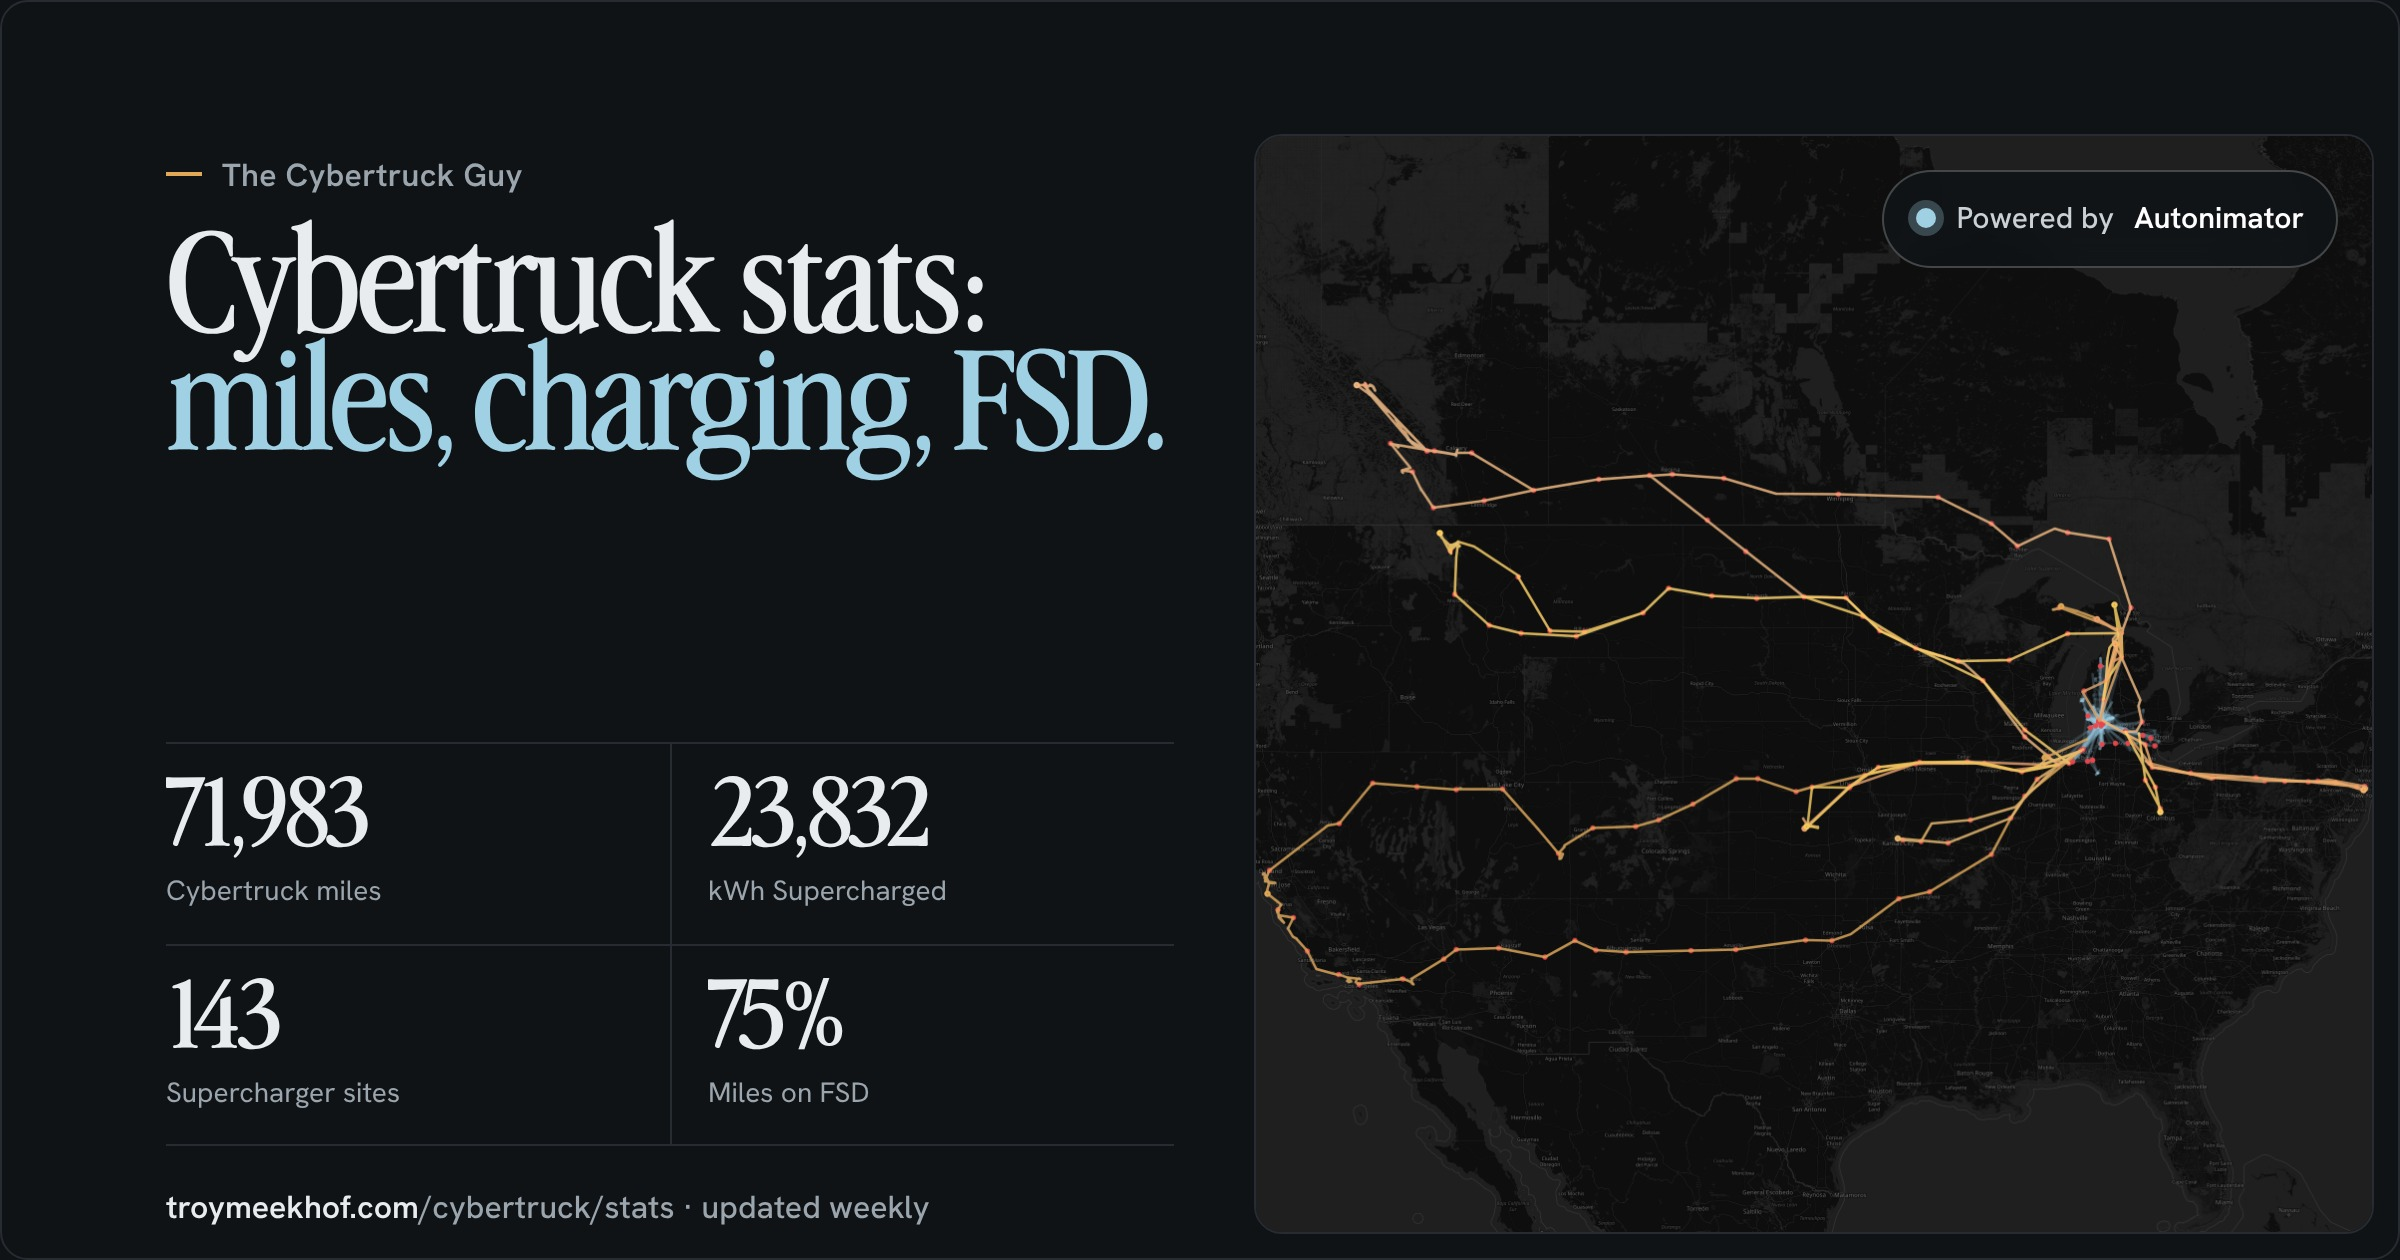
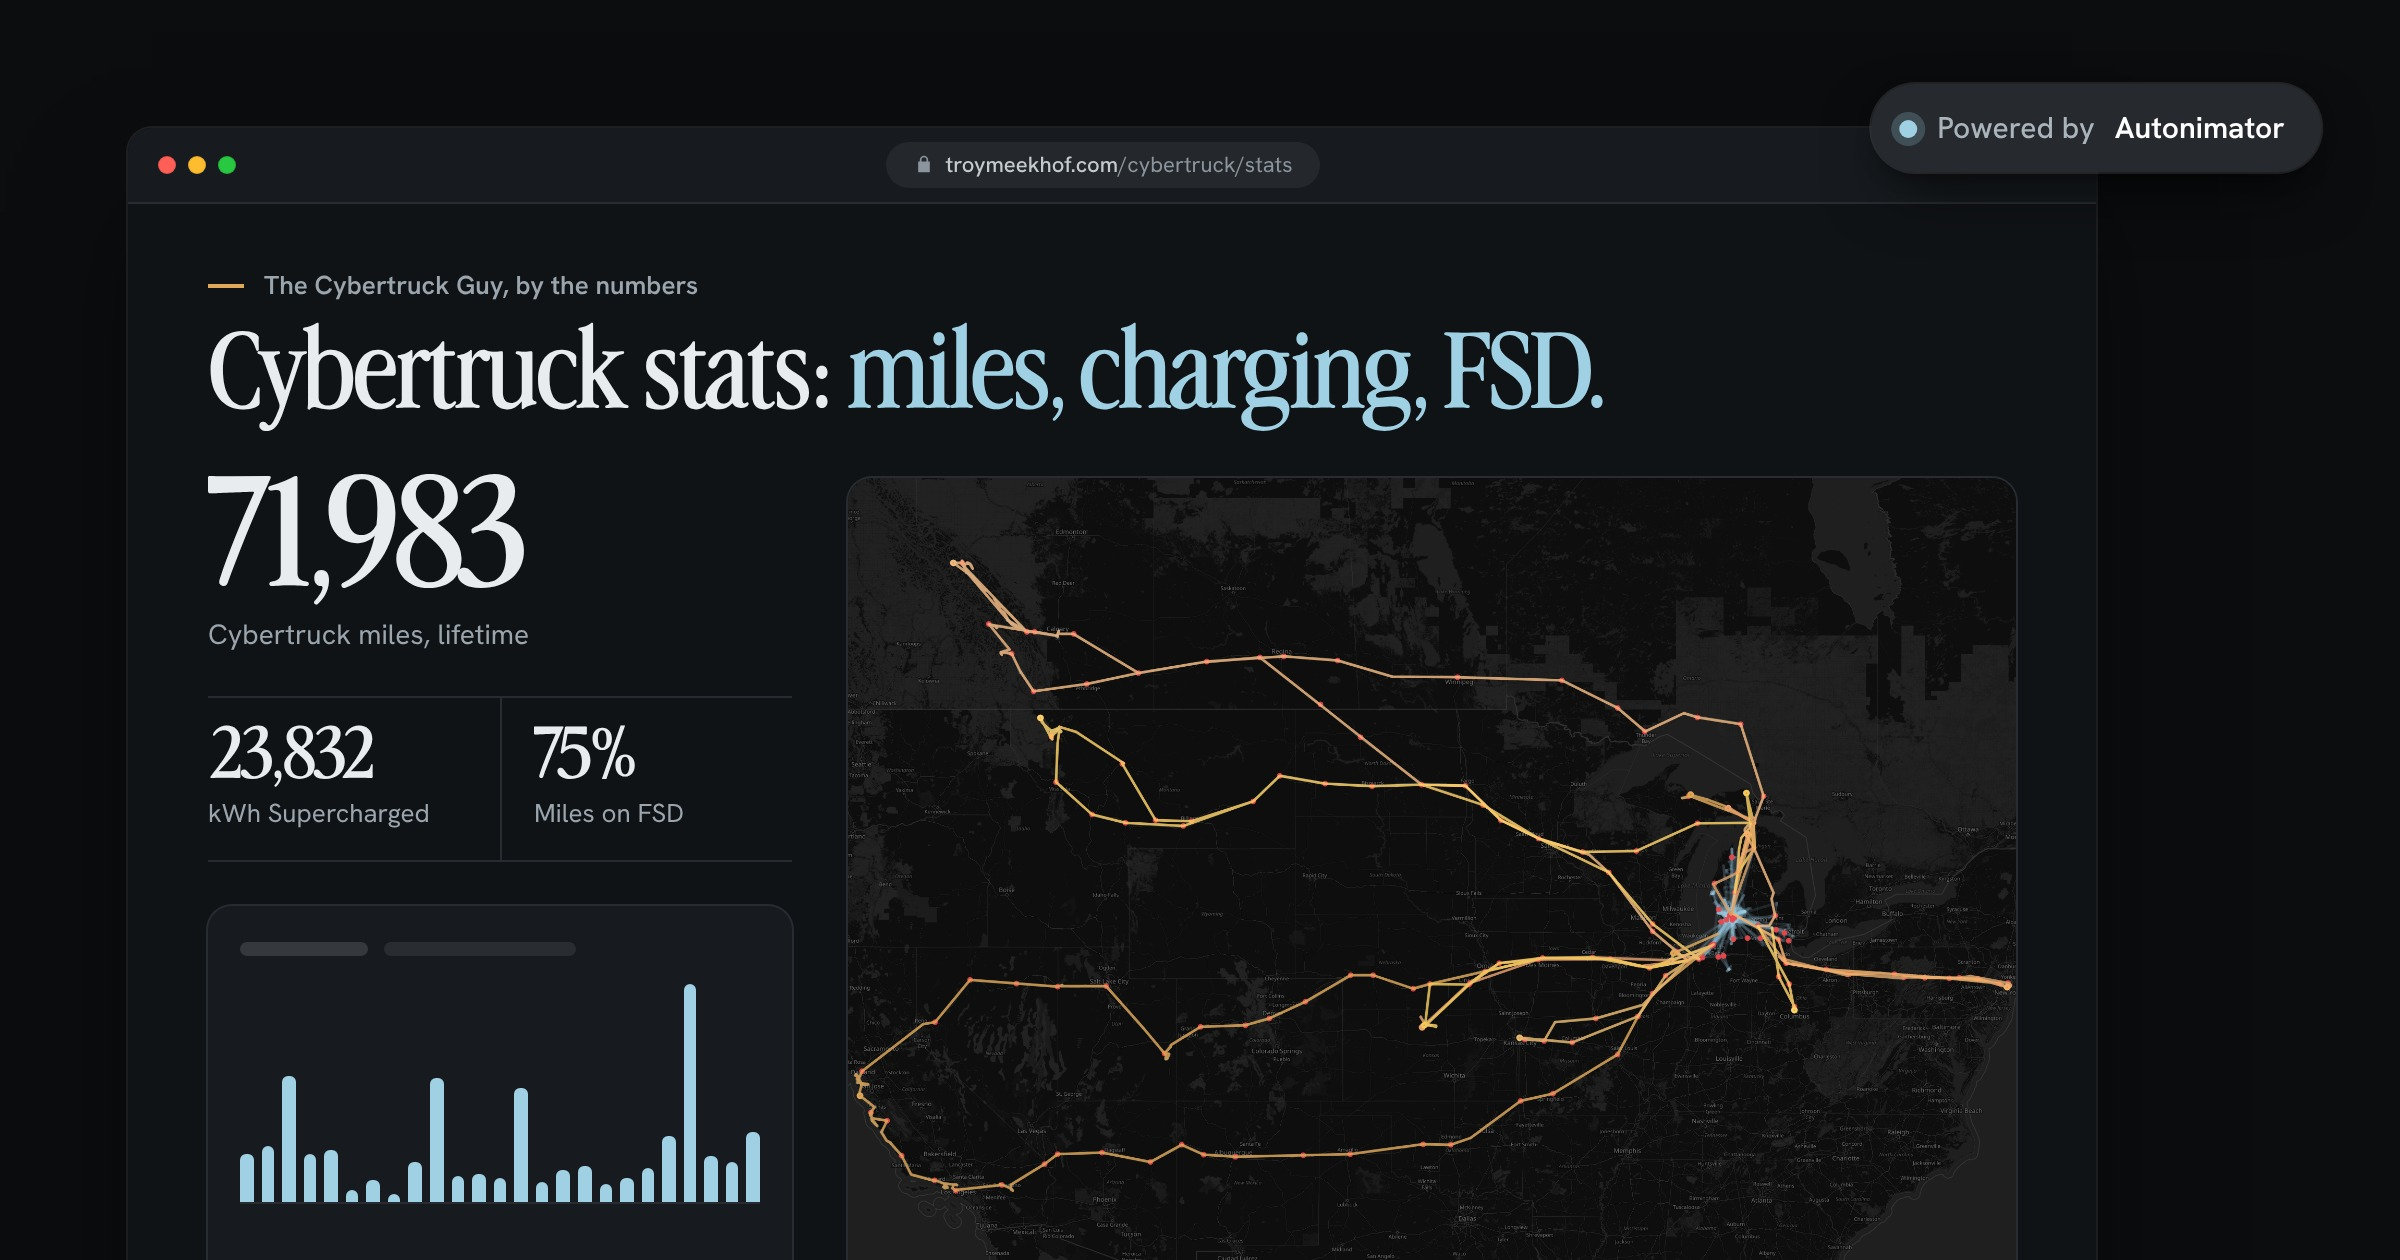
Stats share card: faux browser shot with Autonimator corner chip
Claude-Session: https://claude.ai/code/session_01CFwTxaUJWjfxVswQdGP8SV

diff --git a/_src/tools/og-card.html b/_src/tools/og-card.html
@@ -1,38 +1,93 @@
-<!doctype html><html lang="en" data-persona="tcg"><head><meta charset="utf-8">
+<!doctype html>
+<html lang="en" data-persona="tcg">
+<head>
+<meta charset="utf-8">
+<!-- Share card for /cybertruck/stats/ (1200x630 design, exported at 2x by og-card.js).
+     Composition follows the Stageshow "corner chip" layout: one browser window
+     inset top-left and off the bottom, a chip centered on its top-right corner
+     over chrome only. Numbers are copied from the live page; update them here. -->
 <link rel="preload" href="/assets/fonts/advercase-regular.woff2" as="font" type="font/woff2" crossorigin>
 <link rel="stylesheet" href="https://fonts.googleapis.com/css2?family=Hanken+Grotesk:wght@400;500;600&display=swap">
 <link rel="stylesheet" href="/assets/style.css">
 <style>
-html,body{margin:0;background:var(--ground)}
-.card{width:1200px;height:630px;box-sizing:border-box;display:grid;grid-template-columns:600px 600px;background:var(--ground);color:var(--ink);font-family:var(--sans);position:relative;overflow:hidden}
-.l{padding:48px 40px 40px 56px;display:flex;flex-direction:column}
-.l .label{font-size:16px;margin:0 0 14px}
-.l h1{font-family:var(--display);font-weight:400;font-size:58px;line-height:1.02;margin:0;letter-spacing:-.01em}
-.l h1 em{font-style:normal;color:var(--em)}
-.st{display:grid;grid-template-columns:1fr 1fr;margin-top:auto;border-top:1px solid var(--line)}
-.st div{padding:16px 14px 14px 0;border-bottom:1px solid var(--line)}
-.st div:nth-child(2n){padding-left:18px;border-left:1px solid var(--line)}
-.st b{display:block;font-family:var(--display);font-weight:400;font-size:40px;line-height:1}
-.st span{display:block;margin-top:6px;font-size:14px;color:var(--muted)}
-.url{margin-top:18px;font-size:16px;color:var(--muted);font-weight:500}
-.url b{color:var(--ink);font-weight:600}
-.r{position:relative;padding:40px 40px 40px 0}
-.r img{width:560px;height:550px;object-fit:cover;border-radius:14px;border:1px solid var(--line);display:block}
-.pin{position:absolute;right:58px;top:58px;display:inline-flex;align-items:center;gap:10px;padding:11px 16px;border-radius:999px;background:rgba(16,19,22,.88);border:1px solid rgba(255,255,255,.22);color:#c9d1d7;font-size:15px;font-weight:500;backdrop-filter:blur(6px)}
-.pin b{color:#fff;font-weight:600}
-.pin i{width:10px;height:10px;border-radius:50%;background:var(--primary);box-shadow:0 0 0 4px var(--glow)}
-</style></head><body>
-<div class="card">
- <div class="l">
-  <p class="label">The Cybertruck Guy</p>
-  <h1>Cybertruck stats: <em>miles, charging, FSD.</em></h1>
-  <div class="st">
-   <div><b>71,983</b><span>Cybertruck miles</span></div>
-   <div><b>23,832</b><span>kWh Supercharged</span></div>
-   <div><b>143</b><span>Supercharger sites</span></div>
-   <div><b>75%</b><span>Miles on FSD</span></div>
+html,body{margin:0;background:#0b0d0f}
+.x-og{position:relative;width:1200px;height:630px;overflow:hidden;background:#0b0d0f;font-family:var(--sans);color:#e8ecef}
+
+/* The window: inset 64 top and left, 12% off the bottom */
+.x-win{position:absolute;left:64px;top:64px;width:984px;height:640px;border-radius:12px;overflow:hidden;background:#101316;
+  box-shadow:0 0 0 1px rgba(255,255,255,.08),0 30px 60px -12px rgba(0,0,0,.6)}
+.x-bar{display:flex;align-items:center;height:38px;padding:0 14.5px;background:#171b1f;border-bottom:1px solid rgba(255,255,255,.08)}
+.x-lights{display:flex;gap:6px;flex:none}
+.x-lights i{width:9px;height:9px;border-radius:50%;box-shadow:inset 0 0 0 .5px rgba(0,0,0,.12)}
+.x-lights i:nth-child(1){background:#ff5f57}.x-lights i:nth-child(2){background:#febc2e}.x-lights i:nth-child(3){background:#28c840}
+.x-url{margin:0 auto;transform:translateX(-24px);display:flex;align-items:center;gap:6px;padding:4px 14px;border-radius:999px;background:rgba(255,255,255,.06);color:#8a959d;font-size:11px;line-height:1.4;white-space:nowrap}
+.x-url svg{flex:none}
+.x-url b{color:#c3cbd1;font-weight:500}
+
+/* The page */
+.x-page{padding:30px 40px 0}
+.x-kick{display:flex;align-items:center;gap:10px;margin:0 0 12px;font-size:13px;font-weight:600;color:#9aa5ad}
+.x-kick::before{content:"";width:18px;height:2px;background:#e0a857}
+.x-h1{font-family:var(--display);font-weight:400;font-size:44px;line-height:1.04;letter-spacing:-.01em;color:#e8ecef}
+.x-h1 em{font-style:normal;color:#9fd0e3}
+.x-grid{display:grid;grid-template-columns:292px minmax(0,1fr);gap:28px;margin-top:28px}
+.x-big{font-family:var(--display);font-size:64px;line-height:.95;letter-spacing:-.01em}
+.x-lab{margin-top:8px;font-size:14px;line-height:1.3;color:#9aa5ad}
+.x-pair{display:grid;grid-template-columns:1fr 1fr;margin-top:22px;border-top:1px solid #262c32;border-bottom:1px solid #262c32}
+.x-pair div{padding:14px 0 14px}
+.x-pair div+div{padding-left:16px;border-left:1px solid #262c32}
+.x-pair b{display:block;font-family:var(--display);font-weight:400;font-size:30px;line-height:1}
+.x-pair span{display:block;margin-top:6px;font-size:13px;line-height:1.3;color:#9aa5ad}
+
+/* Filler: the month chart, real shape, no words, off the bottom */
+.x-chart{margin-top:22px;height:220px;border-radius:12px;background:#171b1f;box-shadow:0 0 0 1px #262c32;padding:18px 16px 0;display:flex;flex-direction:column;gap:14px}
+.x-chart .x-t{display:flex;gap:8px}
+.x-chart .x-t i{display:block;height:7px;border-radius:3.5px;background:rgba(255,255,255,.13)}
+.x-bars{display:flex;align-items:flex-end;gap:4px;height:110px;border-bottom:1px solid #262c32}
+.x-bars i{flex:1;border-radius:3px 3px 0 0;background:#9fd0e3}
+
+/* The map: signature content, off the bottom */
+.x-map{height:416px;border-radius:12px;overflow:hidden;box-shadow:0 0 0 1px #262c32;background:#101316}
+.x-map img{display:block;width:100%;height:100%;object-fit:cover;object-position:50% 56%}
+
+/* The chip: centered on the window's top-right corner (1048, 64), a level above */
+.x-chip{position:absolute;left:1048px;top:64px;translate:-50% -50%;display:inline-flex;align-items:center;gap:10px;padding:0 18px 0 14px;height:44px;border-radius:999px;
+  background:#262a2f;box-shadow:0 0 0 1px rgba(255,255,255,.1),0 14px 32px -8px rgba(0,0,0,.7),0 4px 10px -4px rgba(0,0,0,.5);
+  font-size:15px;font-weight:500;color:#aab4bb;white-space:nowrap}
+.x-chip i{width:9px;height:9px;border-radius:50%;background:#9fd0e3;box-shadow:0 0 0 4px rgba(159,208,227,.22);flex:none}
+.x-chip b{color:#fff;font-weight:600}
+</style>
+</head>
+<body>
+<div class="x-og">
+  <div class="x-win">
+    <div class="x-bar">
+      <div class="x-lights"><i></i><i></i><i></i></div>
+      <div class="x-url"><svg width="10" height="10" viewBox="0 0 24 24" aria-hidden="true"><path fill="#8a959d" d="M17 9V7a5 5 0 0 0-10 0v2H5v13h14V9h-2zM9 7a3 3 0 0 1 6 0v2H9V7z"/></svg><span><b>troymeekhof.com</b>/cybertruck/stats</span></div>
+    </div>
+    <div class="x-page">
+      <div class="x-kick">The Cybertruck Guy, by the numbers</div>
+      <div class="x-h1">Cybertruck stats: <em>miles, charging, FSD.</em></div>
+      <div class="x-grid">
+        <div>
+          <div class="x-big">71,983</div>
+          <div class="x-lab">Cybertruck miles, lifetime</div>
+          <div class="x-pair">
+            <div><b>23,832</b><span>kWh Supercharged</span></div>
+            <div><b>75%</b><span>Miles on FSD</span></div>
+          </div>
+          <div class="x-chart">
+            <div class="x-t"><i style="width:64px"></i><i style="width:96px;background:rgba(255,255,255,.08)"></i></div>
+            <div class="x-bars">
+              <i style="height:22%"></i><i style="height:26%"></i><i style="height:58%"></i><i style="height:22%"></i><i style="height:24%"></i><i style="height:6%"></i><i style="height:10%"></i><i style="height:4%"></i><i style="height:18%"></i><i style="height:57%"></i><i style="height:12%"></i><i style="height:13%"></i><i style="height:11%"></i><i style="height:52%"></i><i style="height:9%"></i><i style="height:15%"></i><i style="height:17%"></i><i style="height:8%"></i><i style="height:11%"></i><i style="height:16%"></i><i style="height:30%"></i><i style="height:100%"></i><i style="height:21%"></i><i style="height:18%"></i><i style="height:32%"></i>
+            </div>
+          </div>
+        </div>
+        <div class="x-map"><img src=".og-map.png" alt=""></div>
+      </div>
+    </div>
   </div>
-  <div class="url"><b>troymeekhof.com</b>/cybertruck/stats · updated weekly</div>
- </div>
- <div class="r"><img src=".og-map.png" alt=""><span class="pin"><i></i>Powered by <b>Autonimator</b></span></div>
-</div></body></html>
+  <div class="x-chip"><i></i>Powered by <b>Autonimator</b></div>
+</div>
+</body>
+</html>

diff --git a/cybertruck/stats/index.html b/cybertruck/stats/index.html
@@ -12,7 +12,7 @@
 <meta property="og:title" content="Cybertruck Stats: Lifetime Miles, Supercharging, FSD, Weekly Numbers — Troy Meekhof">
 <meta property="og:description" content="Cybertruck stats: 352 miles this week at 480 Wh/mi, 23,832 kWh of free Supercharging across 143 sites. Updated weekly from the truck's own data via Autonimator.">
 <meta property="og:url" content="https://troymeekhof.com/cybertruck/stats/">
-<meta property="og:image" content="https://troymeekhof.com/assets/img/og-cybertruck-stats.jpg?v=2">
+<meta property="og:image" content="https://troymeekhof.com/assets/img/og-cybertruck-stats.jpg?v=3">
 <meta property="og:image:width" content="2400">
 <meta property="og:image:height" content="1260">
 <meta property="og:image:alt" content="Cybertruck stats: 71,983 miles, 23,832 kWh Supercharged, 143 Supercharger sites, 75% of miles on FSD, with a map of every road trip. Powered by Autonimator.">
@@ -23,7 +23,7 @@
 <meta name="twitter:creator" content="@cybrtrkguy">
 <meta name="twitter:title" content="Cybertruck Stats: Lifetime Miles, Supercharging, FSD, Weekly Numbers — Troy Meekhof">
 <meta name="twitter:description" content="Cybertruck stats: 352 miles this week at 480 Wh/mi, 23,832 kWh of free Supercharging across 143 sites. Updated weekly from the truck's own data via Autonimator.">
-<meta name="twitter:image" content="https://troymeekhof.com/assets/img/og-cybertruck-stats.jpg?v=2">
+<meta name="twitter:image" content="https://troymeekhof.com/assets/img/og-cybertruck-stats.jpg?v=3">
 <meta name="color-scheme" content="dark">
 <meta name="theme-color" content="#101316">
 <link rel="alternate" type="application/rss+xml" title="Troy Meekhof — Articles" href="/rss.xml">

diff --git a/_src/CHANGELOG.md b/_src/CHANGELOG.md
@@ -22,3 +22,4 @@
 - 2026-10-31: Map redone: road trips (17, auto-detected from the drive log, named in cybertruck/stats/trips.json) drawn as the chain of stops with hover/tap tooltips and a trip list under the map; everyday driving as a faint web; Supercharger dots and arcs removed; Leaflet prefix (flag) removed. Mosaic spacing tightened on wide screens. Why: Troy.
 - 2026-10-31: Map detail: per-trip colors, finer paths away from home, farthest-stop rings, red Supercharger dots; nightly refresh runbook saved at _src/tools/REFRESH-TASK.md. Why: Troy.
 - 2026-10-31: Stats page share image: new 1200x630 card (assets/img/og-cybertruck-stats.jpg) with lifetime numbers, the trip map, and a Powered by Autonimator pin; og:image and twitter:image now point at it. Rebuild with _src/tools/og-card.js. Why: Troy wants a link preview when he posts the page.
+- 2026-10-31: Share card redone as a faux browser shot of the stats page with a "Powered by Autonimator" chip on the window corner (Stageshow corner-chip layout). Why: Troy asked to apply the Stageshow skill.
